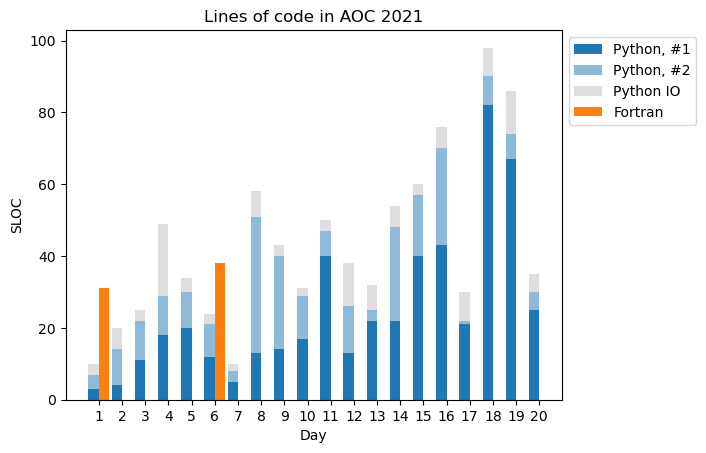
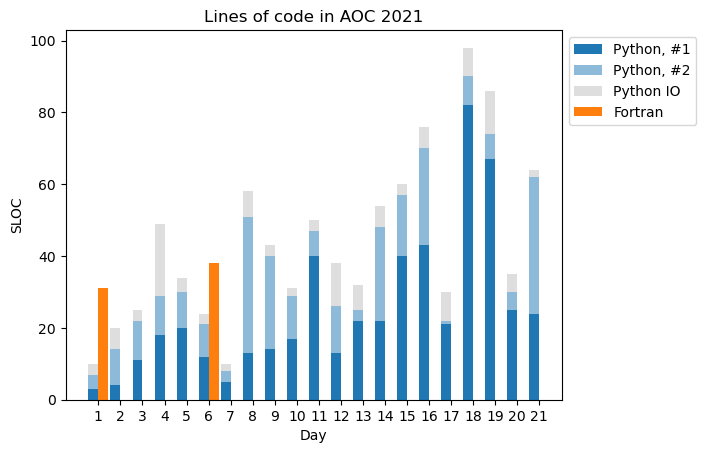
Day 21, part 2

Changed region(s): [[0.1246, 0.0927, 0.779, 0.9272]]

diff --git a/21/day21.py b/21/day21.py
@@ -5,11 +5,11 @@ Created on Tue Dec 21 10:00:15 2021
 
 """
 
-from pprint import pprint
-
 with open('input.txt', mode='r') as f:
     positions = [int(l.strip().split(' ')[-1]) for l in f.readlines()]
-    
+
+# part 1
+
 def roll(n):
     return sum([i for i in range(n + 1, n + 4)]), (n + 3) % 100
 
@@ -44,17 +44,14 @@ pos_a = positions[0] - 1
 pos_b = positions[1] - 1
 print(play_1(pos_a, pos_b))
 
+# part 2
 
-def sums_tot(n):
+def sums(n):
     all_sums = []
     for i in range(1, n + 1):
         for j in range(1, n + 1):
             for k in range(1, n + 1):
                 all_sums.append(i+j+k)
-    return all_sums
-
-def sums(n):
-    all_sums = sums_tot(n)
     uniques = list(set(all_sums))
     return uniques, [len([s for s in all_sums if s == u]) for u in uniques]
 
